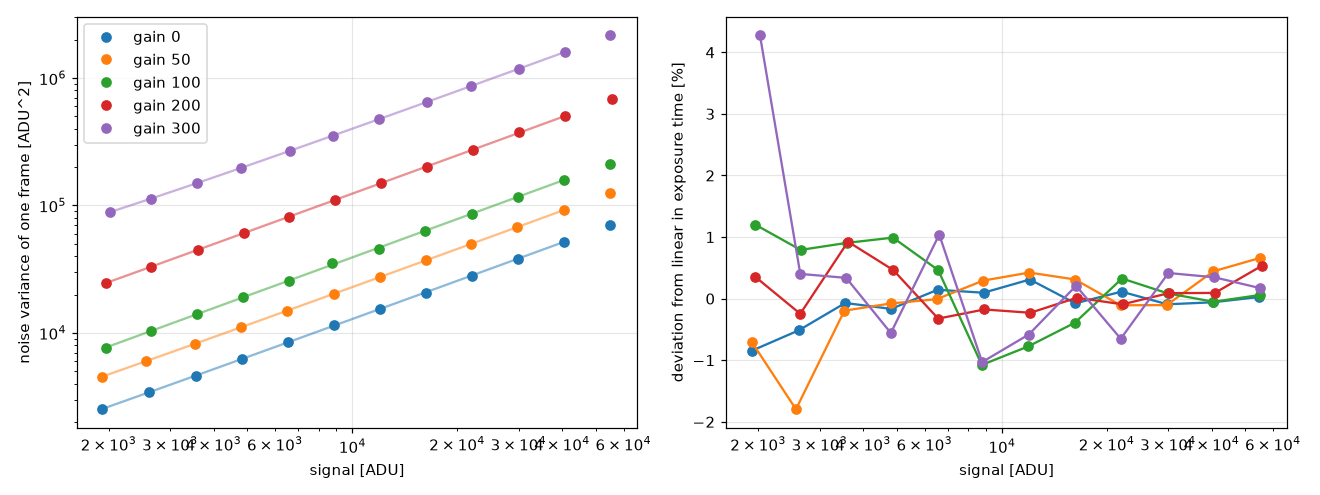
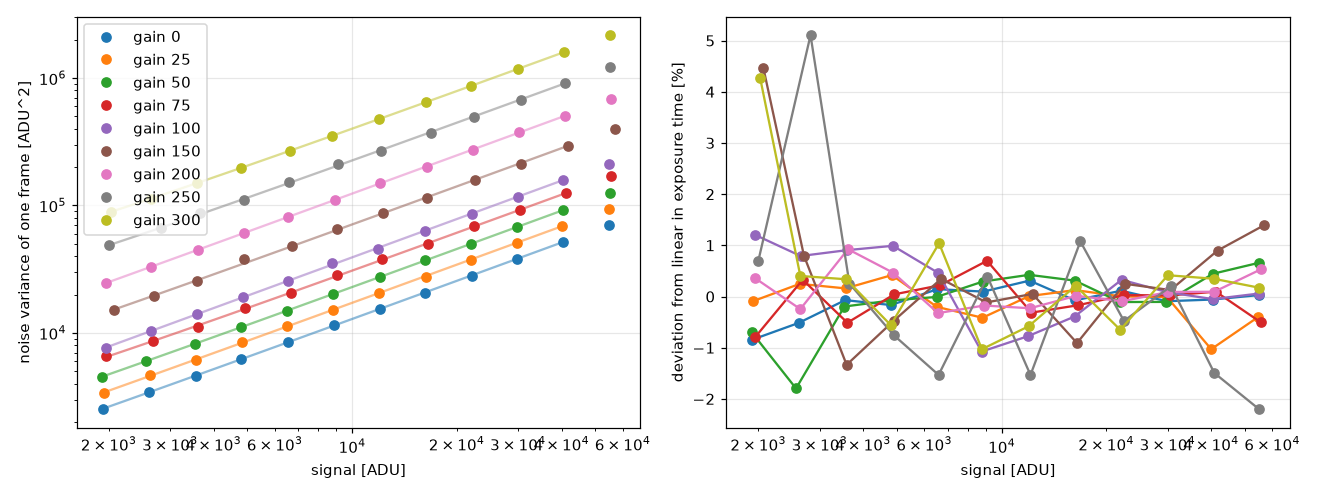
Add short exposure and readout steps and the results to the ASI2600MM Pro notes
New characterize.py steps: short (level vs exposure time from 32 us to 50 ms) and readout (frame time vs binning,
bit depth and high speed mode). The report shows the bias level per temperature.

Results: exposure offset of about 90 us, gains 25/75/150/250 within 3% of the gain law, full-frame time 0.558 s
independent of binning, high speed mode 24% faster with 70% more read noise.

diff --git a/tools/characterize.py b/tools/characterize.py
@@ -6,6 +6,8 @@ Run with the lens capped and without any other program using the camera, e.g.::
     uv run python tools/characterize.py gain
     uv run python tools/characterize.py temperature
     uv run python tools/characterize.py flat   # lens uncapped, pointed at a steady, defocused light source
+    uv run python tools/characterize.py short  # same light source
+    uv run python tools/characterize.py readout
     uv run python tools/characterize.py report
 
 Steps (all with high speed mode off, on a central 2048x2048 window):
@@ -17,6 +19,10 @@ Steps (all with high speed mode off, on a central 2048x2048 window):
   of at most 2 degC/min and the camera is warmed up again afterwards.
 * ``flat``: photon transfer curve from pairs of frames of a steady, roughly uniform light source (e.g. a wall): gain in
   e-/ADU, read noise in e-, saturation and linearity. The bias level comes from the fit of level vs. exposure time.
+* ``short``: signal vs. exposure times from the minimum up to 100 ms with a steady light source, to find an offset in
+  the exposure time or a nonlinearity for short exposures.
+* ``readout``: time per frame for the full frame vs. binning and bit depth, with high speed mode off and on, and the
+  read noise in both modes.
 * ``report``: plots and a Markdown report from the measured data.
 
 Results are appended to JSON lines files in the output folder, so a run can be repeated or resumed.
@@ -61,6 +67,11 @@ FLAT_MAX_EXPOSURE_S = 20.0
 LINEAR_MAX_FRACTION = 0.6  # bias and rate are fitted below this level
 FIT_MAX_FRACTION = 0.75  # the photon transfer fit uses signals below this fraction of full scale
 DEFAULT_OFFSET = 50
+SHORT_EXPOSURES_S = [0.0, 0.00005, 0.0001, 0.0002, 0.0005, 0.001, 0.002, 0.005, 0.01, 0.02, 0.05, 0.1]
+SHORT_REFERENCE_S = 0.01  # repeated between the points to follow the light source
+SHORT_FRAMES = 5
+SHORT_FIT_MIN_S = 0.001  # the exposure offset is fitted from exposures from here on
+READOUT_FRAMES = 5
 
 
 class CoolerLimit(Exception):
@@ -399,6 +410,107 @@ def run_temperature(cam: Camera, out: Output, temperatures: list[int], gain: int
         warm_up(cam, out, ambient)
 
 
+def run_short(cam: Camera, out: Output, gain: int, offset: int, reference_s: float = SHORT_REFERENCE_S) -> None:
+    """Mean level of the central window vs. exposure time for short exposures, with a reference exposure between."""
+    min_s = cam.min_exposure_us * 1e-6
+    # bias level from frames at the minimum exposure, the signal level is relative to that
+    cam.grab(min_s, gain, offset)
+    bias = float(np.mean([crop(cam.grab(min_s, gain, offset)).mean() for _ in range(SHORT_FRAMES)]))
+    cam.grab(reference_s, gain, offset)
+    ref0 = float(crop(cam.grab(reference_s, gain, offset)).mean())
+    if ref0 - bias <= 20:
+        raise SystemExit("Too little light on the sensor, check the lens cap and the light source.")
+    rate = (ref0 - bias) / reference_s
+    for exposure in SHORT_EXPOSURES_S:
+        exposure = max(exposure, min_s)
+        if bias + rate * exposure > 0.85 * FULL_SCALE:
+            print(f"  t={exposure:.6f}s skipped, would saturate", flush=True)
+            continue
+        cam.grab(exposure, gain, offset)  # discard the first frame after a setting change
+        levels = [float(crop(cam.grab(exposure, gain, offset)).mean()) for _ in range(SHORT_FRAMES)]
+        cam.grab(reference_s, gain, offset)
+        ref = float(crop(cam.grab(reference_s, gain, offset)).mean())
+        record = {
+            "gain": gain,
+            "offset": offset,
+            "exposure": exposure,
+            "time": time.time(),
+            "temp": cam.temperature(),
+            "level": float(np.mean(levels)),
+            "level_std": float(np.std(levels)),
+            "level_min_exposure": bias,
+            "ref_level": ref,
+        }
+        out.write("short", record)
+        print(
+            f"  t={exposure:9.6f}s level={record['level']:9.2f} +- {record['level_std']:.2f} ADU "
+            f"reference={ref - bias:8.1f} ADU",
+            flush=True,
+        )
+
+
+def _timed_frames(cam: Camera, width: int, height: int, bins: int, image_type: int, gain: int, offset: int) -> list:
+    c = cam.cam
+    c.set_control_value(asi.ASI_GAIN, gain)
+    c.set_control_value(asi.ASI_OFFSET, offset)
+    c.set_control_value(asi.ASI_EXPOSURE, cam.min_exposure_us)
+    c.set_roi(0, 0, width, height, bins=bins, image_type=image_type)
+    frames = []
+    for i in range(READOUT_FRAMES + 1):  # the first frame after a setting change is discarded
+        t0 = time.time()
+        c.start_exposure()
+        while c.get_exposure_status() == asi.ASI_EXP_WORKING:
+            time.sleep(0.001)
+        t1 = time.time()
+        if c.get_exposure_status() != asi.ASI_EXP_SUCCESS:
+            raise RuntimeError("Exposure failed.")
+        data = c.get_data_after_exposure()
+        t2 = time.time()
+        if i > 0:
+            frames.append((t1 - t0, t2 - t1, data))
+    return frames
+
+
+def run_readout(cam: Camera, out: Output, gain: int, offset: int) -> None:
+    """Time per frame of the full frame vs. binning and bit depth, and the read noise, in both speed modes."""
+    info = cam.info
+    modes = [("RAW16", asi.ASI_IMG_RAW16, np.uint16), ("RAW8", asi.ASI_IMG_RAW8, np.uint8)]
+    for speed in (0, 1):
+        cam.cam.set_control_value(asi.ASI_HIGH_SPEED_MODE, speed)
+        for bins in info["SupportedBins"]:
+            width = info["MaxWidth"] // bins // 8 * 8
+            height = info["MaxHeight"] // bins // 2 * 2
+            for name, image_type, dtype in modes:
+                frames = _timed_frames(cam, width, height, bins, image_type, gain, offset)
+                exposure_s = float(np.median([f[0] for f in frames]))
+                download_s = float(np.median([f[1] for f in frames]))
+                a = np.frombuffer(frames[0][2], dtype=dtype).reshape(height, width)
+                b = np.frombuffer(frames[1][2], dtype=dtype).reshape(height, width)
+                noise = pair_stats(crop(a), crop(b)) if min(a.shape) >= CUTOUT else None
+                record = {
+                    "time": time.time(),
+                    "high_speed": speed,
+                    "bins": bins,
+                    "type": name,
+                    "width": width,
+                    "height": height,
+                    "gain": gain,
+                    "offset": offset,
+                    "exposure_s": exposure_s,
+                    "download_s": download_s,
+                    "frame_s": exposure_s + download_s,
+                    "noise_adu": None if noise is None else noise["noise_std_adu"],
+                    "bias_mean": None if noise is None else noise["mean"],
+                }
+                out.write("readout", record)
+                print(
+                    f"  high_speed={speed} bin={bins} {name} {width}x{height}: exposure+readout {exposure_s:.3f} s, "
+                    f"download {download_s:.3f} s, noise={record['noise_adu']}",
+                    flush=True,
+                )
+    cam.cam.set_control_value(asi.ASI_HIGH_SPEED_MODE, 0)
+
+
 def fit_gain(records: list[dict[str, Any]], gain: int, weighted: bool = False) -> dict[str, float] | None:
     """Fit variance = read_noise^2 + g * signal. The slope g is ADU per electron.
 
@@ -434,6 +546,7 @@ def make_report(out: Output, info: dict[str, Any]) -> None:
     lines = [f"# Characterization of {info.get('Name', 'ASI camera')}", ""]
     bias, gain, temp = out.read("bias"), out.read("gain"), out.read("temperature")
     temp = [r for r in temp if "bias_noise_adu" in r]
+    short, readout = out.read("short"), out.read("readout")
 
     if bias:
         offsets = sorted({r["offset"] for r in bias})
@@ -563,12 +676,68 @@ def make_report(out: Output, info: dict[str, Any]) -> None:
         fig.tight_layout()
         fig.savefig(folder / "temperature.png", dpi=110)
         lines += ["## Noise and dark current vs temperature", "", "![temperature](temperature.png)", ""]
-        lines += ["| T [degC] | exposure [s] | read noise [ADU] | dark [ADU/s] mean | hot fraction |"]
-        lines += ["|---|---|---|---|---|"]
+        lines += ["| T [degC] | exposure [s] | bias [ADU] | read noise [ADU] | dark [ADU/s] mean | hot fraction |"]
+        lines += ["|---|---|---|---|---|---|"]
         for r in temp:
             lines.append(
-                f"| {r['temp']:.1f} | {r['exposure']:.0f} | {r['bias_noise_adu']:.2f} | "
+                f"| {r['temp']:.1f} | {r['exposure']:.0f} | {r['bias_mean']:.2f} | {r['bias_noise_adu']:.2f} | "
                 f"{r['dark_adu_per_s_mean']:.5f} | {r['hot_frac']:.5f} |"
+            )
+        lines.append("")
+
+    if short:
+        rows = [r for r in short if r["exposure"] >= SHORT_FIT_MIN_S]
+        t = np.array([r["exposure"] for r in short])
+        level = np.array([r["level"] for r in short])
+        rate, level0 = np.polyfit([r["exposure"] for r in rows], [r["level"] for r in rows], 1)
+        # bias of the same gain and offset from the bias step, if there is one
+        match = [
+            b["mean"] for b in out.read("bias") if b["gain"] == short[0]["gain"] and b["offset"] == short[0]["offset"]
+        ]
+        lines += [
+            "## Short exposures",
+            "",
+            f"Level of the central window vs. exposure time (gain {short[0]['gain']}, offset {short[0]['offset']}), "
+            f"{SHORT_FRAMES} frames per point. Line fitted from {SHORT_FIT_MIN_S * 1000:.0f} ms on: "
+            f"{rate:.0f} ADU/s, level {level0:.1f} ADU at zero exposure.",
+        ]
+        if match:
+            lines.append(
+                f"The bias frame level is {match[0]:.1f} ADU, so the line corresponds to an exposure offset of "
+                f"{(level0 - match[0]) / rate * 1e6:+.0f} us."
+            )
+        lines += ["", "| exposure [ms] | level [ADU] | std of frames [ADU] | deviation from the line [us] |"]
+        lines += ["|---|---|---|---|"]
+        for r in short:
+            dev = (r["level"] - (level0 + rate * r["exposure"])) / rate * 1e6
+            lines.append(f"| {r['exposure'] * 1000:.3f} | {r['level']:.1f} | {r['level_std']:.2f} | {dev:+.0f} |")
+        fig, ax = plt.subplots(figsize=(6, 4.5))
+        ax.loglog(t * 1000, level - (match[0] if match else level0), "o-", label="measured")
+        ax.loglog(t * 1000, rate * t + level0 - (match[0] if match else level0), "--", label="line from >= 1 ms")
+        ax.set_xlabel("exposure time [ms]")
+        ax.set_ylabel("level above bias [ADU]")
+        ax.grid(alpha=0.3, which="both")
+        ax.legend()
+        fig.tight_layout()
+        fig.savefig(folder / "short.png", dpi=110)
+        lines += ["", "![short](short.png)", ""]
+
+    if readout:
+        lines += [
+            "## Readout",
+            "",
+            "Full frame at the minimum exposure. Frame time is from the start of the exposure until the camera reports "
+            "it done, the download is the copy of the data afterwards. Noise is from a pair of frames on a central "
+            f"{CUTOUT}x{CUTOUT} window of the binned image; for RAW8 it is dominated by rounding.",
+            "",
+            "| high speed | bin | type | size | frame time [s] | download [s] | noise [ADU] |",
+            "|---|---|---|---|---|---|---|",
+        ]
+        for r in readout:
+            noise = "" if r["noise_adu"] is None else f"{r['noise_adu']:.2f}"
+            lines.append(
+                f"| {r['high_speed']} | {r['bins']} | {r['type']} | {r['width']}x{r['height']} | "
+                f"{r['exposure_s']:.3f} | {r['download_s']:.3f} | {noise} |"
             )
         lines.append("")
 
@@ -578,7 +747,7 @@ def make_report(out: Output, info: dict[str, Any]) -> None:
 
 def main() -> None:
     parser = argparse.ArgumentParser(description=__doc__, formatter_class=argparse.RawDescriptionHelpFormatter)
-    parser.add_argument("step", choices=["bias", "gain", "temperature", "flat", "report"])
+    parser.add_argument("step", choices=["bias", "gain", "temperature", "flat", "short", "readout", "report"])
     parser.add_argument("--sdk", default="sdk/x64/libASICamera2.so")
     parser.add_argument("--out", default="characterization")
     parser.add_argument("--gains", type=int, nargs="+", help="gains for the bias or gain step")
@@ -588,6 +757,9 @@ def main() -> None:
     parser.add_argument("--gain", type=int, default=DEFAULT_GAIN, help="gain for the temperature step")
     parser.add_argument("--offset", type=int, default=DEFAULT_OFFSET)
     parser.add_argument("--target-temp", type=int, default=20, help="cooler target for the gain step in degC")
+    parser.add_argument(
+        "--reference", type=float, default=SHORT_REFERENCE_S, help="reference exposure in s, short step"
+    )
     parser.add_argument("--no-cooling", action="store_true", help="gain step with the cooler off")
     args = parser.parse_args()
 
@@ -616,6 +788,10 @@ def main() -> None:
             )
         elif args.step == "flat":
             run_flat(cam, out, args.gains or FLAT_GAINS, args.offset)
+        elif args.step == "short":
+            run_short(cam, out, args.gain, args.offset, args.reference)
+        elif args.step == "readout":
+            run_readout(cam, out, args.gain, args.offset)
         elif args.step == "temperature":
             run_temperature(cam, out, args.temperatures, args.gain, args.offset)
     finally:

diff --git a/ASI2600MM_Pro.md b/ASI2600MM_Pro.md
@@ -117,10 +117,18 @@ weights of 1/variance. The bias comes from the intercept of level vs exposure ti
 | Gain | e-/ADU | ADU/e- | Slope error | Read noise [e-] (bias pairs) | Full scale [e-] |
 |---|---|---|---|---|---|
 | 0 | 0.783 | 1.277 | 0.3% | 3.5 | 50885 |
+| 25 | 0.584 | 1.712 | 0.5% | not measured | 37981 |
 | 50 | 0.441 | 2.270 | 0.3% | 3.3 | 28632 |
+| 75 | 0.330 | 3.029 | 0.7% | not measured | 21461 |
 | 100 | 0.255 | 3.914 | 0.5% | 1.4 | 16619 |
+| 150 | 0.142 | 7.026 | 1.2% | not measured | 9258 |
 | 200 | 0.081 | 12.35 | 0.2% | 1.3 | 5263 |
+| 250 | 0.045 | 22.11 | 0.8% | not measured | 2936 |
 | 300 | 0.026 | 39.08 | 0.2% | 1.3 | 1659 |
+
+Gains 25, 75, 150 and 250 were measured in a later run (same set-up, sensor at 28.6 to 29.1 degC, offset 50). Their
+full scale uses the bias from the fit intercept, which is off by up to 136 ADU at gains 150 and 250 (see the short
+exposure section), so it is good to about 1%.
 
 ![Photon transfer and linearity](images/ASI2600MM_Pro_flat.png)
 
@@ -131,9 +139,14 @@ weights of 1/variance. The bias comes from the intercept of level vs exposure ti
 - The read noise in electrons is the bias-pair noise (see the table above) times e-/ADU. The intercept of the photon
   transfer fit is not usable for it, because the lowest signal is 1900 ADU.
 - Linearity in exposure time: the largest deviation is 0.8% to 1.8% at gains 0 to 200, mostly scatter of about 0.5%
-  between points. Gain 300 at 0.49 ms is +4.3% (shutter timing or lamp flicker at short exposures, not separated).
+  between points. Gain 300 at 0.49 ms is +4.3%, and gains 150 and 250 also reach 4.5% to 5.1% at their shortest exposures (0.4 to 0.7
+ms). The short exposure section below shows an effective exposure offset of about 90 us, which explains them (inferred).
   One pair at gain 100 had 3% lamp drift. The lamp and the wall were not characterised, so these are upper limits.
-- Not verified here: the dependence on temperature, and the result for gains between the ones measured.
+- Gains between the first five (25, 75, 150, 250) follow the same law, `0.783 * 10^(-gain/200)` e-/ADU: the measured
+  values are -0.5%, 0.0%, +2.2% and +2.7% from it. The deviations at 150 and 250 are 2 to 3 times the fit errors and
+  the nonlinearity of those two runs is 4.5% and 5.1% (shortest exposures), so the gain error there may be
+  systematic (inferred). The preset formula in `presets.py` is good to about 3% for all gains tested.
+- Not verified here: the dependence on temperature.
 
 ## Gain from the dark-current shot noise (cross-check, rough)
 
@@ -178,6 +191,10 @@ Hot pixels are the fraction of pixels more than 20 sigma (bias MAD noise) above 
 
 - Dark current doubles every 4.0 degC (60 s) to 4.6 degC (300 s) (exponential fit of the means, 15 to -10 degC).
 - Read noise does not change with temperature (5.66 to 5.68 ADU).
+- The bias level rises by 0.11 ADU from 16 degC to -10 degC (500.57 to 500.68 ADU, 0.004 ADU per degC), a drift much
+  smaller than the read noise. The 0.1 to 0.3 ADU bias drift suspected below as a cause of the 300 s excess is of the
+  same size as this, so it cannot be ruled out. The temperature step now stores the bias level per target and the
+  table in `report.md` shows it.
 - At 0 degC the dark current is 0.0011 to 0.0012 e-/s/pixel; ZWO lists 0.0022 e/s/pixel at 0 degC and 0.00012 at
   -20 degC (not verified, I do not know whether this is a mean or a median). Our extrapolation to -20 degC is about
   0.00006 e-/s (inference, not measured).
@@ -228,17 +245,79 @@ in the cutout run).
 - `IMode` capabilities are `Gain: [Low noise, High capacity]`. Switching the modes gives gain 100 or 0, `DET-GAIN`
   0.2476 or 0.783 and `OFFSET` 50 in the FITS header. A manual `set_gain(150)` leaves the mode unset. An invalid mode or
   group raises `InvalidArgumentError`. `reset()` returns to Low noise.
-- `AsiCamera` writes `DET-GAIN` and `OFFSET` but no `GAIN` keyword (`AsiVideo` does).
+- `AsiCamera` wrote `DET-GAIN` and `OFFSET` but no `GAIN` keyword (`AsiVideo` does); fixed in pyobs/pyobs-asi#81.
 - `set_cooling(True, 10)` right after `open()` ramps from the wrong temperature, because the SDK reports 0.0 degC for
   a moment (pyobs/pyobs-asi#79). The sensor was cooled to about 3 degC before it returned to the target of 10 degC.
 - Closing with warm-up on close stopped after exactly 300 s, the default `cooling_close_timeout`, with the cooler
   still 5 degC below the 20 degC off temperature (pyobs/pyobs-asi#80).
+- Both are fixed in pyobs/pyobs-asi#81 (waits for the first non-zero temperature, estimates the close timeout from the
+  setpoint, new warm-up defaults 15 degC and 2 degC/min). Checked on the camera: after `open()` the temperature is
+  non-zero, the ramp starts at the sensor temperature, the `GAIN` header is written.
+- The warm-up on close stopped after one step at 0 degC (cooler off at 0 degC, 30 s after the first step). With the
+  cooler off the sensor warms about 14 degC/min (measured: 0 to 8 degC in 35 s). The cause is the early stop of the core
+  ramp, which compared only the sensor with the setpoint while the sensor still lagged; fixed in
+  pyobs/pyobs-core#1077 by also requiring a cooler power of 0. With that fix the close from 0 degC took 450 s: setpoint
+  steps of 1 degC every 30 s to 15 degC, the sensor followed within 1 degC, the power fell from 36% to 0%.
+
+## Short exposures (measured)
+
+Level of the central 512x512 window vs exposure time with the wall and lamp, sensor at 28 degC, gain 100, offset 50,
+5 frames per point and a reference exposure of 25 ms between the points (`short` step with `--reference 0.025`).
+
+| Exposure [ms] | Level [ADU] | Effective exposure [us] |
+|---|---|---|
+| 0.032 (minimum) | 591.4 | 99 |
+| 0.050 | 591.3 | 99 |
+| 0.100 | 665.8 | 180 |
+| 0.200 | 739.7 | 260 |
+| 0.500 | 1033.9 | 580 |
+| 1 | 1472.0 | 1057 |
+| 2 | 2420.8 | 2090 |
+
+![Level vs exposure time](images/ASI2600MM_Pro_short.png)
+
+The effective exposure is (level - 500.6 ADU) divided by the slope of the line fitted from 1 ms on (918947 ADU/s).
+
+- From 1 ms to 50 ms the level is linear: the deviations from the line are within 35 us, and 50 ms (70% of full scale)
+  is within 0.03%.
+- Exposures of 100 us and longer collect the light of about 60 to 90 us more than set. The line extrapolates to an
+  exposure offset of +92 us. A shorter set time does not give less light: 32 us and 50 us gave the same level, as if
+  the shortest exposure were about 100 us (inferred from these points only).
+- Relative to the set time this is 9% at 1 ms and 90% at 100 us. Flat-field photon transfer and short-exposure
+  photometry need the offset, because the level is not proportional to the set time below a few ms. An intercept based
+  bias (as in the flat step) is wrong by rate times 92 us.
+- Not checked: a dependence on gain, temperature or ROI size. The frame-to-frame std grows to 0.2% at 10 ms, which
+  fits lamp flicker, so the lamp limits the precision above 5 ms.
+
+## Readout time and high speed mode (measured)
+
+Full frame at the minimum exposure, gain 100, offset 50, cooler off (`readout` step). Frame time is from the start of
+the exposure to "done"; the download adds 0.02 to 0.08 s.
+
+| Mode | Bin | Frame time [s] | Noise per pixel [ADU] |
+|---|---|---|---|
+| RAW16, high speed off | 1 | 0.558 | 5.66 |
+| RAW16, high speed off | 2 | 0.561 | 2.87 |
+| RAW16, high speed off | 4 | 0.557 | 1.46 |
+| RAW16, high speed on | 1 | 0.426 | 9.64 |
+| RAW16, high speed on | 2 | 0.427 | 4.93 |
+| RAW8, high speed off | 1 | 0.559 | rounding only |
+| RAW8, high speed on | 1 | 0.361 | rounding only |
+
+- The frame time does not depend on the binning (0.557 to 0.561 s for bins 1 to 4): the sensor is always read out in
+  full. Binning saves download data, not time (inferred).
+- High speed mode shortens the frame time from 0.558 s to 0.426 s (RAW16, 24%) or 0.361 s (RAW8, 35%), but the read
+  noise rises by 70% at gain 100 (9.64 vs 5.66 ADU). `asi-gui` sets it to 0 on startup.
+- The noise falls like 1/bin in both modes, as in the binning measurement above (averaging).
+- RAW8 noise is rounding (0.1 to 1 ADU at a level of about 2 ADU), not read noise.
+- Not tried: `HardwareBin`, the `BandWidth` control, and the exposure time that goes with a longer exposure (the frame
+  time here is the minimum, a 1 s exposure adds its length plus readout, not checked).
 
 ## Not done
 
-Flat-field uniformity and dust, the gain between the measured gain
-values, the dependence of the gain on temperature, bias drift with temperature, short exposures below about 1 ms, and
-dark current below -10 degC (not reachable much further in this room).
+Flat-field uniformity and dust, the dependence of the gain on temperature, the short-exposure offset at other gains
+and temperatures, the read noise at gains 25, 75, 150 and 250, and dark current below -10 degC (not reachable much
+further in this room).
 
 ## GUI (`asi-gui`)
 
@@ -263,13 +342,17 @@ The `flat` step needs the lens uncapped, pointed at a steady, defocused light so
 
 ```bash
 uv run python tools/characterize.py flat
+uv run python tools/characterize.py flat --gains 25 75 150 250
+uv run python tools/characterize.py short --reference 0.025
 ```
+
+`short` takes the reference exposure so that the light source gives a good signal; `readout` needs no light.
 
 The `gain` step cools to `--target-temp` (default 20 degC; the run above used `--target-temp 10`), or use `--no-cooling`.
 
 Results go to `characterization/<camera name>/` (JSON lines, a few 512x512 cutouts as FITS, plots and `report.md`).
 The measurements of the ASI2600MM Pro are in `characterization/ZWO_ASI2600MM_Pro/` (`bias.jsonl`, `gain.jsonl`,
-`flat.jsonl`, `temperature.jsonl`, `templog.jsonl`, `meta.json`). `uv run python tools/characterize.py report` rebuilds
+`flat.jsonl`, `short.jsonl`, `readout.jsonl`, `temperature.jsonl`, `templog.jsonl`, `meta.json`). `uv run python tools/characterize.py report` rebuilds
 the plots and `report.md` from them, no camera needed. The FITS cutouts, the plots there and the logs are not kept in
 git. `templog.jsonl` is the temperature log of all runs, including the stopped ones, so it is not a clean series. The
 `gain.jsonl` points are from the cooled run at 10 degC (target 10, sensor 9.6 to 10.0 degC), the dark runs of the
